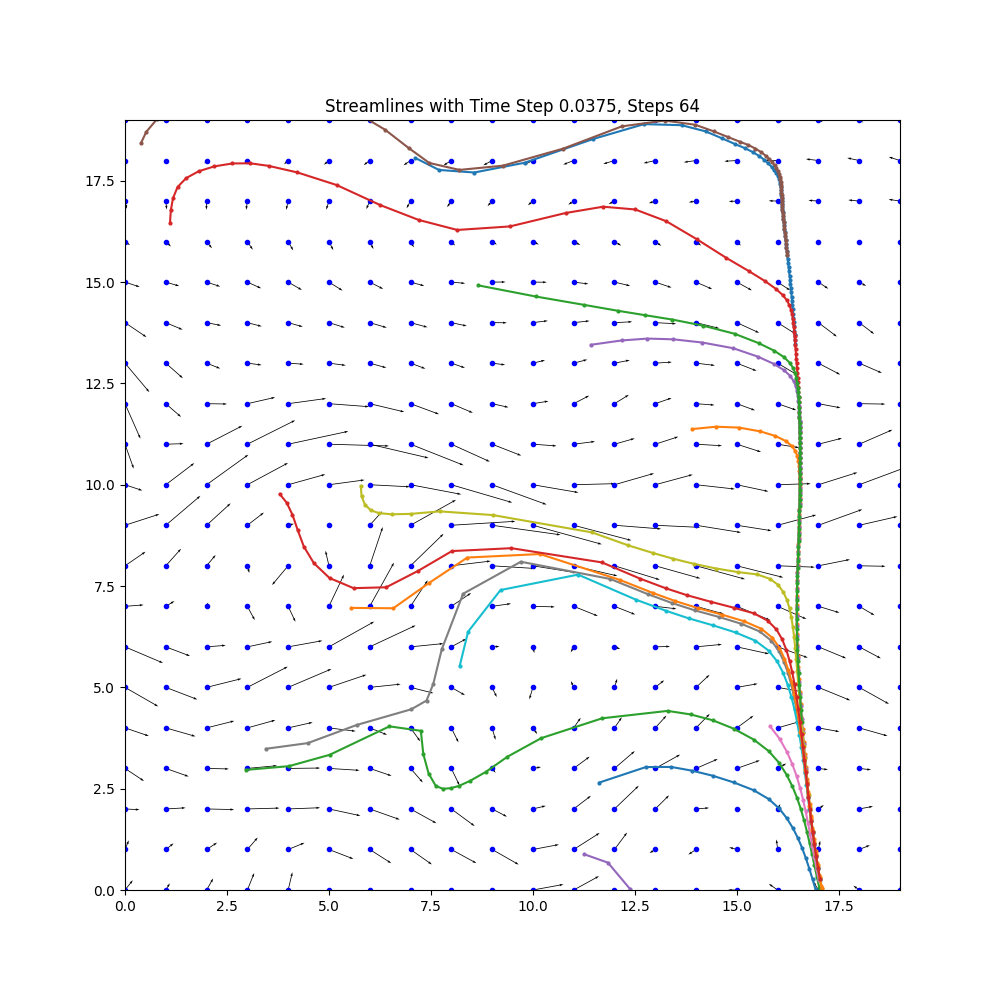
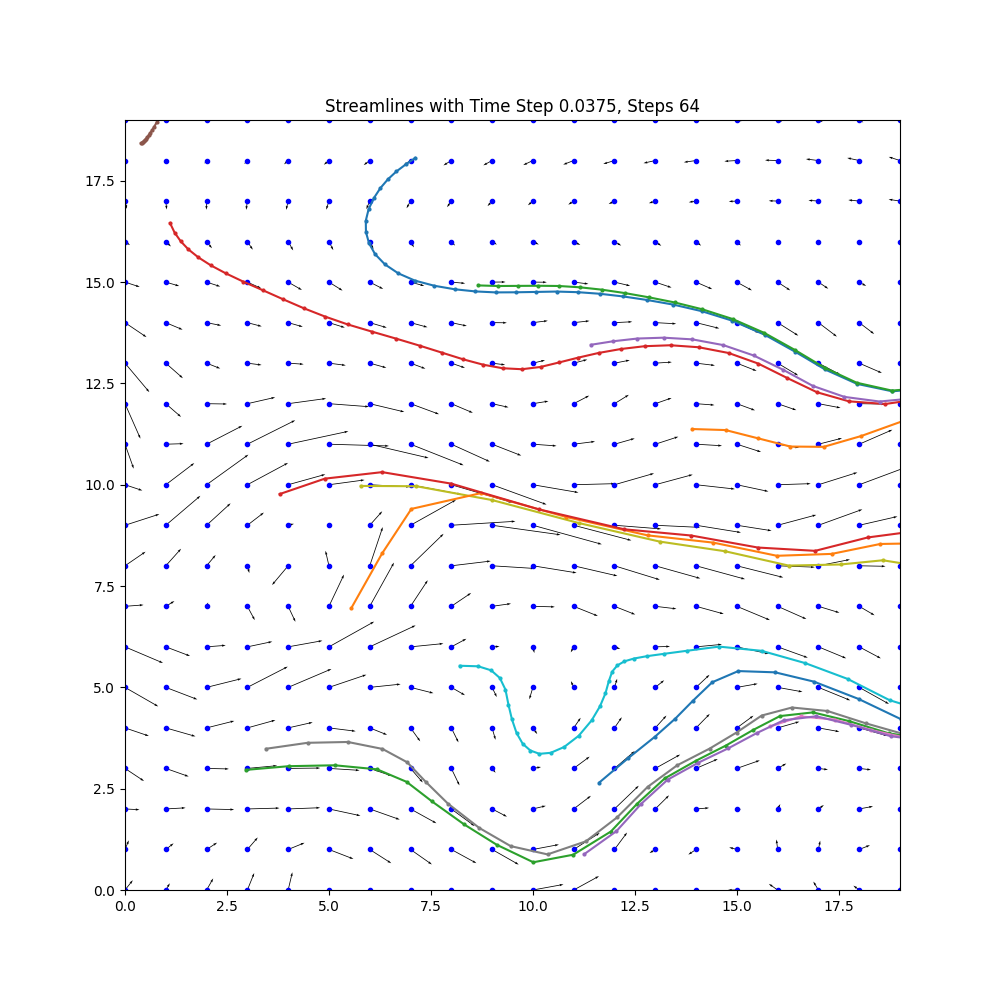
updates

diff --git a/4/code/code.py b/4/code/code.py
@@ -71,10 +71,15 @@ def bilinear_interpolation(x, y, vecs):
     if x1 == x2: x2 += 1
     if y1 == y2: y2 += 1
 
-    Q11 = vecs[y1, x1] if y1 < 20 and x1 < 20 else np.array([0, 0])
-    Q12 = vecs[y2, x1] if y2 < 20 and x1 < 20 else np.array([0, 0])
-    Q21 = vecs[y1, x2] if y1 < 20 and x2 < 20 else np.array([0, 0])
-    Q22 = vecs[y2, x2] if y2 < 20 and x2 < 20 else np.array([0, 0])
+    # Q11 = vecs[y1, x1] if y1 < 20 and x1 < 20 else np.array([0, 0])
+    # Q12 = vecs[y2, x1] if y2 < 20 and x1 < 20 else np.array([0, 0])
+    # Q21 = vecs[y1, x2] if y1 < 20 and x2 < 20 else np.array([0, 0])
+    # Q22 = vecs[y2, x2] if y2 < 20 and x2 < 20 else np.array([0, 0])
+
+    Q11 = vecs[x1, y1] if y1 < 20 and x1 < 20 else np.array([0, 0])
+    Q12 = vecs[x1, y2] if y2 < 20 and x1 < 20 else np.array([0, 0])
+    Q21 = vecs[x2, y1] if y1 < 20 and x2 < 20 else np.array([0, 0])
+    Q22 = vecs[x2, y2] if y2 < 20 and x2 < 20 else np.array([0, 0])
 
     # Bilinear interpolation formula
     R1 = (x2 - x) / (x2 - x1) * Q11 + (x - x1) / (x2 - x1) * Q21
@@ -140,6 +145,7 @@ def plot_streamlines(seed_points, vecs, time_step, steps, title, file_name):
     # Save the plot
     plot_path = f"4/figs/{file_name}.png"
     plt.savefig(plot_path)
+    plt.show()
     return plot_path
 
 # Parameters for different streamlines
@@ -151,7 +157,6 @@ streamline_params = [
 
 # Generate and save plots for each parameter set
 plot_paths = [plot_streamlines(seed_points, vecs, ts, st, title, file_name) for ts, st, title, file_name in streamline_params]
-plt.show()
 plot_paths
 
 # Extra Credit
